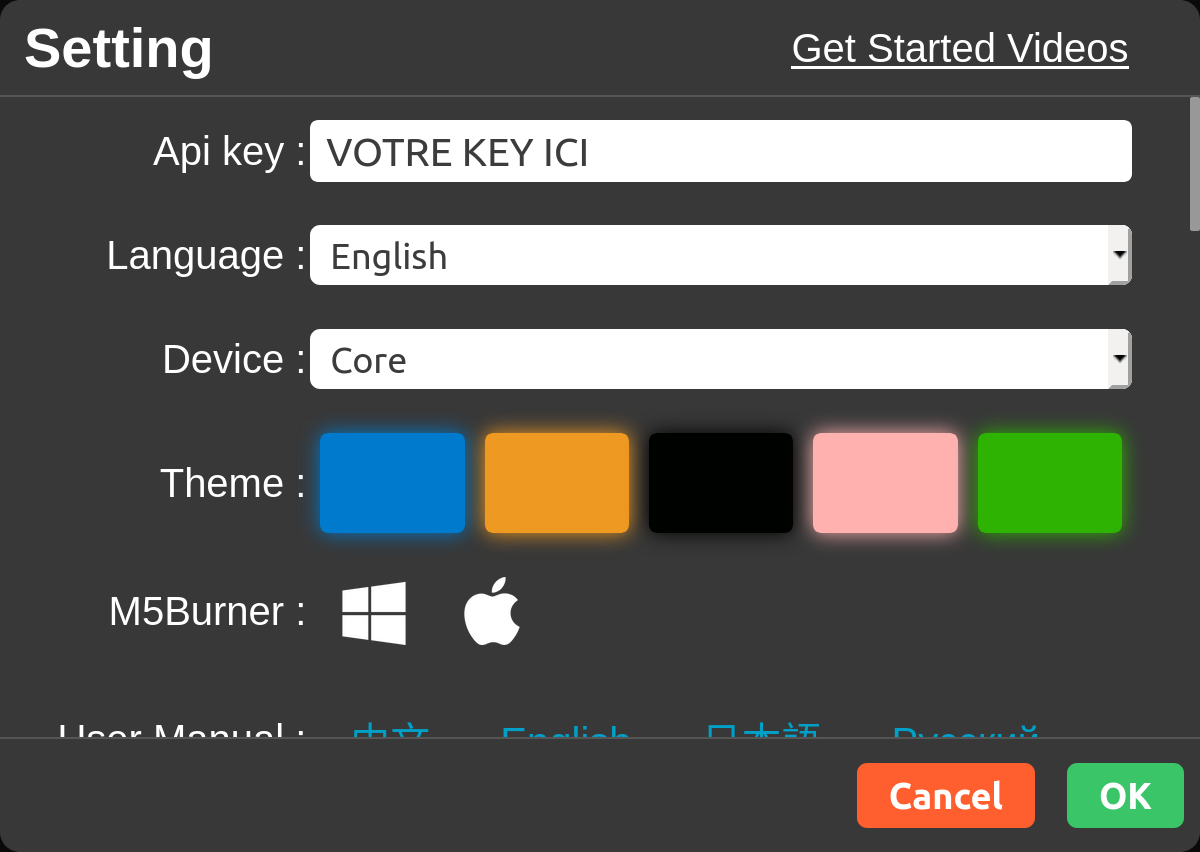
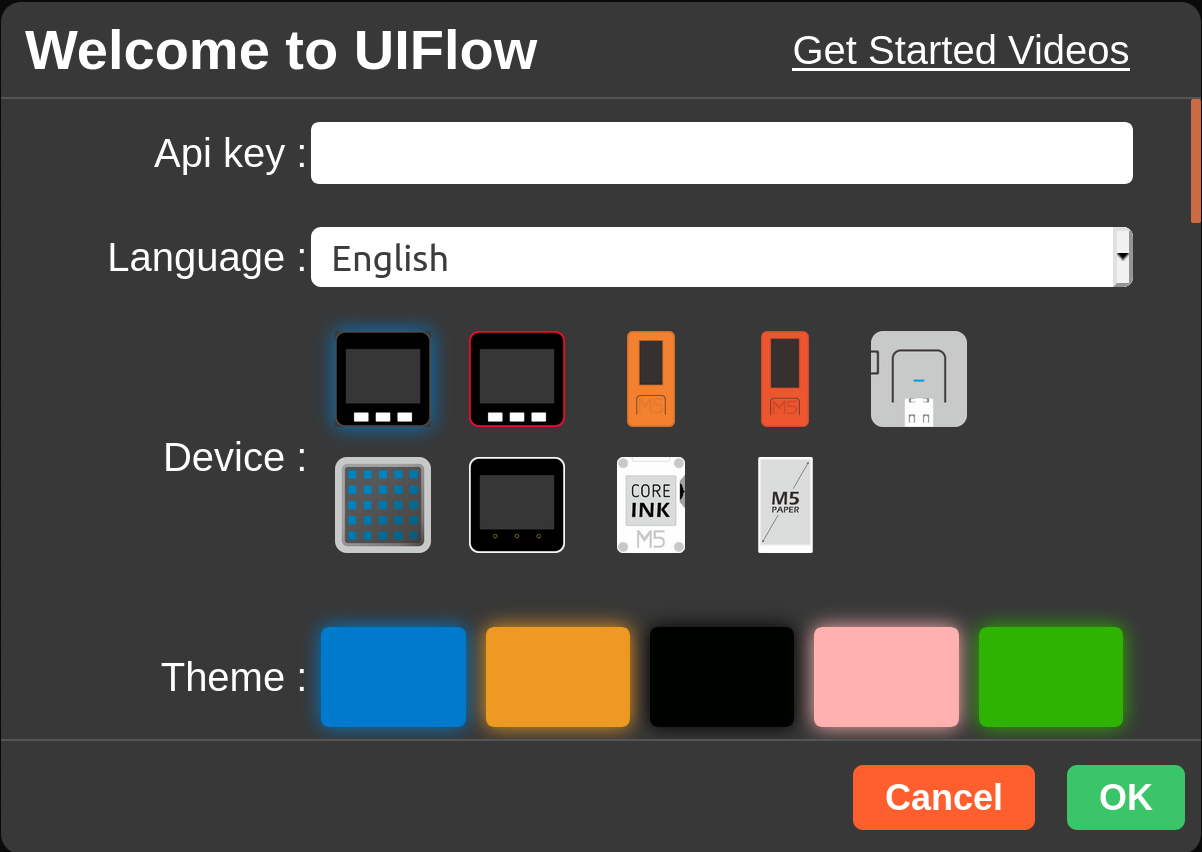
Mise à jour

diff --git a/2019_07_M5Stack/article.md b/2019_07_M5Stack/article.md
@@ -84,9 +84,11 @@ Les modèles M5Stack et M5Stick possèdent au moins un port d’extension compat
 
 ## 3.1 Installation de UIFlow via M5Burner
 
-A partir du site de téléchargement https://m5stack.com/pages/download téléchargeons le M5Burner. Attention sur certain OS il faut installer un driver USB avant de pouvoir lancer le M5Burner. (CP2104 Driver sur la page de téléchargement) Une fois lancé le Burner nous permet de sélectionner le programme à installer. Sélectionnons la dernière version 1.4.5.1 de UIFlow qui est compatible M5Stack et M5StickC. Les versions plus récentes supportent uniquement le M5Stack. Une fois téléchargé nous pouvons envoyer notre programme à notre M5Stack en cliquant sur Burn, n’oubliez pas auparavant de spécifier vos information Wifi. (voir capture d’écran)
+A partir du site de téléchargement https://m5stack.com/pages/download téléchargeons le M5Burner. Attention sur certain OS il faut installer un driver USB avant de pouvoir lancer le M5Burner. (CP2104 Driver sur la page de téléchargement) Une fois lancé le Burner nous permet de sélectionner le programme à installer. Téléchargeons la dernière version de UIFlow pour notre M5Stack et pour notre M5StickC. Une fois téléchargé nous pouvons envoyer notre programme à notre M5Stack ou notre M5StickC en cliquant sur Burn, n’oubliez pas auparavant de spécifier vos information Wifi ainsi que le port de communication COM (ici `/dev/ttyUSB0`). (voir capture d’écran)
 
-![](images/M5Burner.png)                  
+![](images/M5Burner_0.png)
+![](images/M5Burner_1.png)
+![](images/M5Burner_2.png)
 
 
 Une fois installé le programme se lance automatiquement, on nous propose un rapide mode d’emploi ainsi que la découverte des fonctionnalités du M5Stack (haut parleur, microphone, gyroscope, RGB bar…)
@@ -95,11 +97,9 @@ Une fois installé le programme se lance automatiquement, on nous propose un rap
 
 ![](images/UIFlow.png)
 
-L’étape suivante consiste à connecter l’interface de développement UIFlow à notre M5Stack. Il y a deux possibilités pour accéder à UIFlow : en ligne grâce à L’URL https://flow.m5stack.com/ ou bien grâce à l’IDE disponible sur le site de téléchargement. L’outil nous demande « l’Api key » pour pouvoir déployer notre application  sur notre M5Stack. Pour obtenir cette information il faut redémarrer le M5Stack en appuyant sur le bouton rouge puis rapidement appuyer sur le premier bouton « upload ».
+L’étape suivante consiste à connecter l’interface de développement UIFlow à notre M5Stack. Il y a deux possibilités pour accéder à UIFlow : en ligne grâce à L’URL https://flow.m5stack.com/ ou bien grâce à l’IDE disponible sur le site de téléchargement. L’outil nous demande le type de périphérique dans notre cas M5Stack ou M5StickC, nous devons aussi saisir « l’Api key » pour pouvoir déployer notre application  sur notre périphérique.
 
-L’étape suivante consiste à connecter l’interface de développement UIFlow à notre M5Stack. Il y a deux possibilités pour accéder à UIFlow : en ligne grâce à L’URL https://flow.m5stack.com/ ou bien grâce à l’IDE disponible sur le site de téléchargement. L’outil nous demande « l’Api key » pour pouvoir déployer notre application  sur notre M5Stack. 
-
-Si vous avez tester les application pré-installé pour retourner sur le menu affichant « l’API key » il  faut redémarrer le M5Stack en appuyant sur le bouton rouge puis rapidement appuyer sur le bouton du milieur (celui situé sous les deux points).
+> Si vous avez tester les application pré-installé pour retourner sur le menu affichant « l’API key » il  faut redémarrer le M5Stack en appuyant sur le bouton rouge puis rapidement appuyer sur le bouton du milieur (celui situé sous les deux points).
 
 Pour le moment UIFlow ne permet pas de développer en Français, nous allons donc utiliser l’interface en anglais.
 
